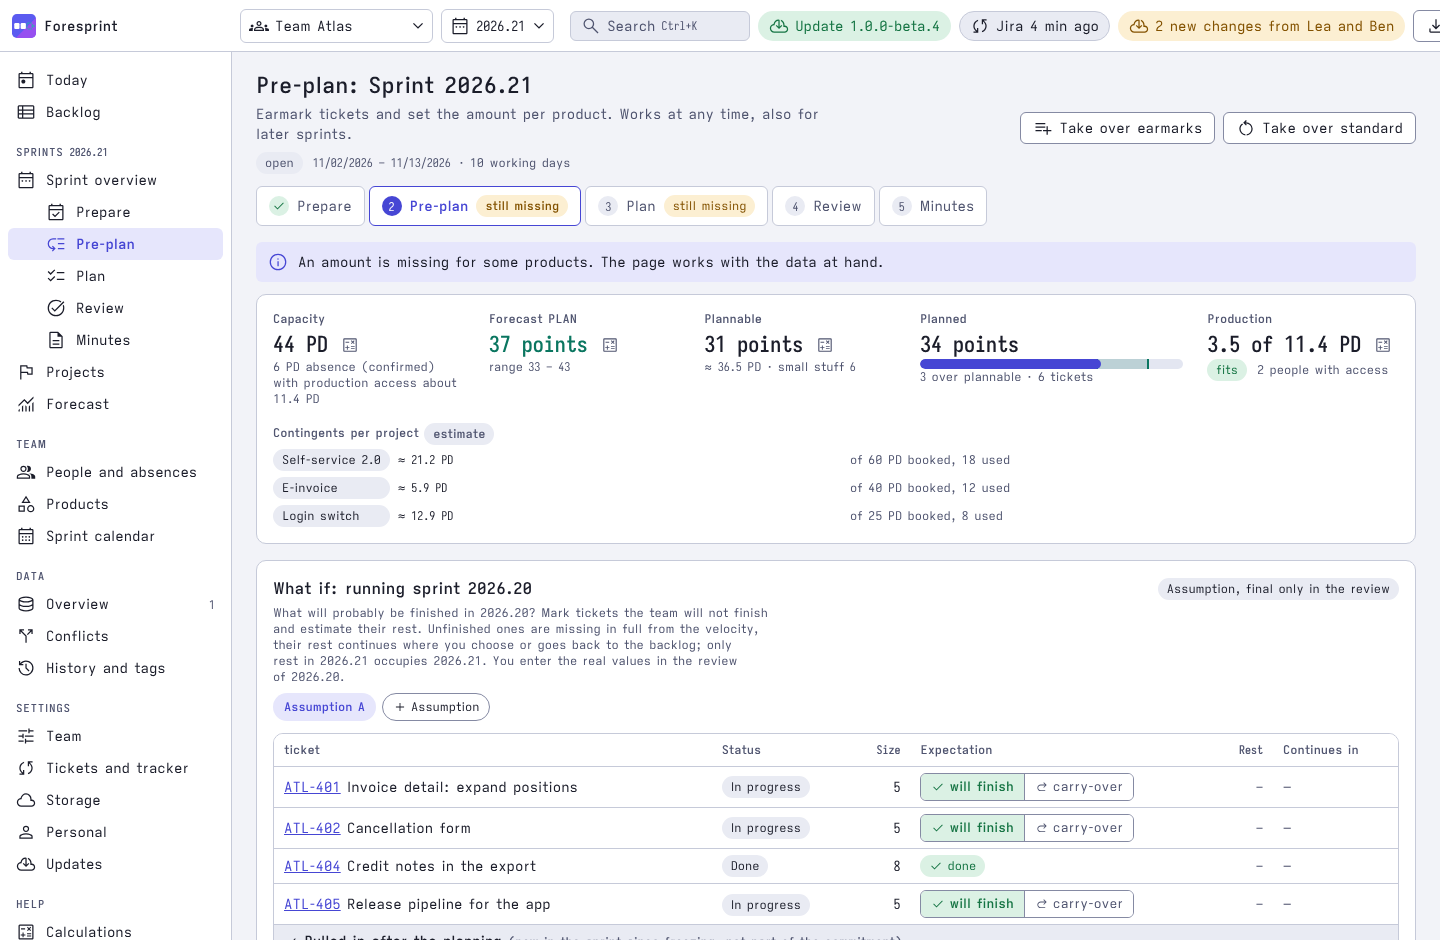
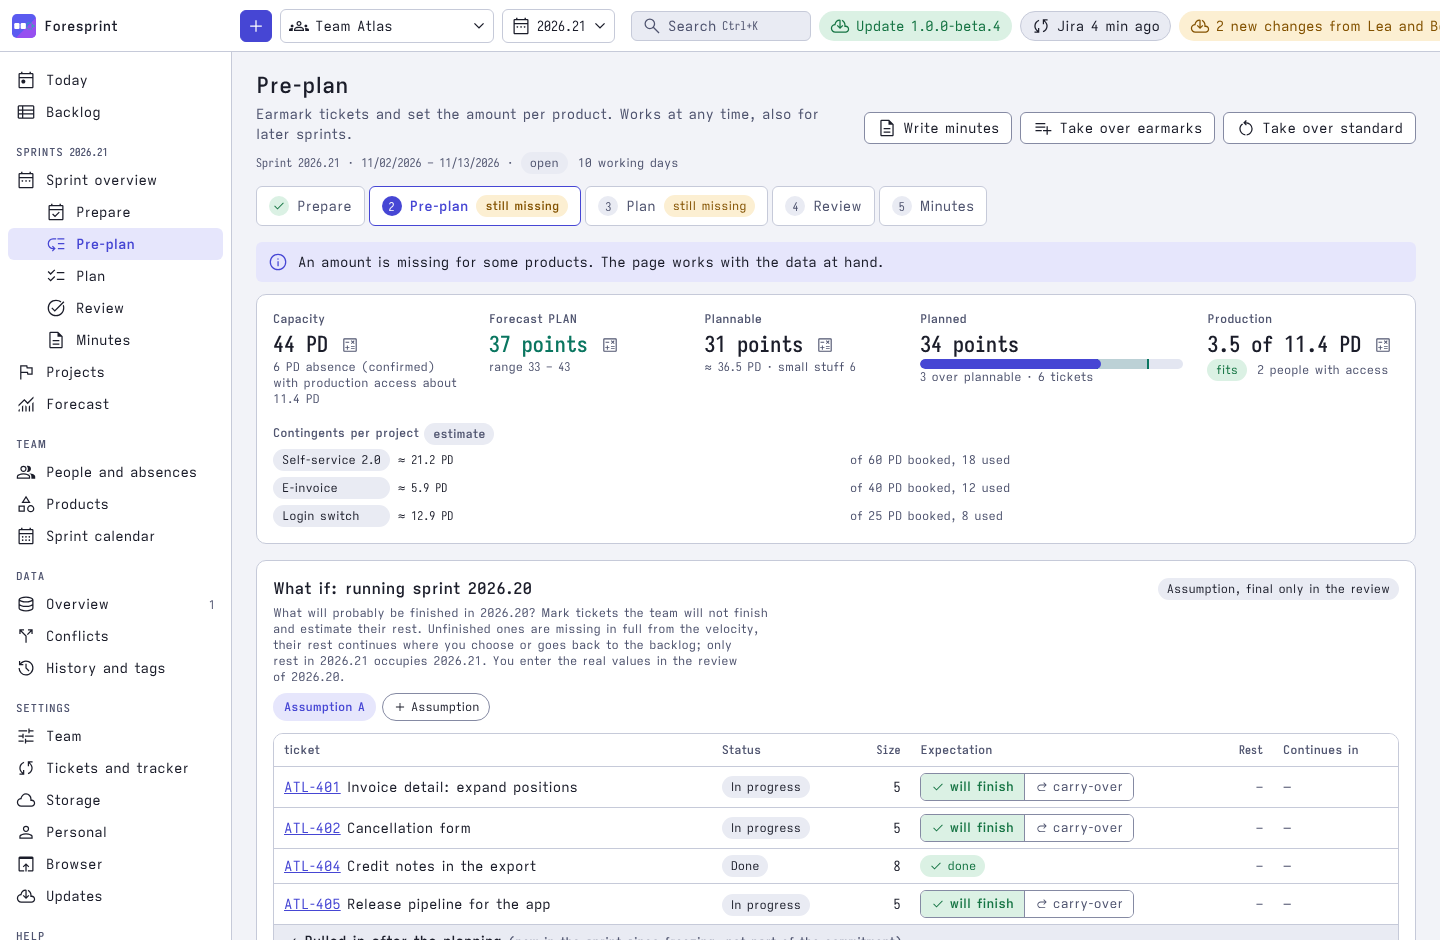
Docs: browser access, Jira board and write-back, token sign-in, current screenshots (#491)
* Docs: browser access, Jira board and write-back, token sign-in, current screenshots

Claude-Session: https://claude.ai/code/session_01PxpPVAzYWaYmv2KXepWFbj

* Docs: fix review findings (write-back wording, lanes, serve in CLI build, server kind)

Claude-Session: https://claude.ai/code/session_01PxpPVAzYWaYmv2KXepWFbj

---------

diff --git a/docs/window.md b/docs/window.md
@@ -2,8 +2,9 @@
 
 Foresprint 1.0 is one program: a double click on the launcher (or `foresprint gui`) opens the
 window. It reads and writes the **same YAML files** as the command line and validates everything
-before saving. Nothing runs in a browser and no server is started; the data stays in the local
-folder or Git clone. See the [README](../README.md) for installation and the quick start, and
+before saving. The data stays in the local folder or Git clone; no Foresprint server exists. The
+window can optionally also be shown as a [page of your browser](#showing-foresprint-in-the-browser),
+on this computer only. See the [README](../README.md) for installation and the quick start, and
 [Installation](installation.md) for the launcher.
 
 ```bash
@@ -27,7 +28,7 @@ The navigation on the left has these groups. The Backlog appears only for teams 
 | Group | Page | Content |
 |---|---|---|
 | | Today | what is due next in the sprint, findings (projects at risk, open tickets without an estimate) |
-| | Backlog | the tickets in order: filter, sort, drag between backlog and sprints, with capacity and project dates changing at once; presentation view for the refinement or planning meeting |
+| | Backlog | the tickets in one order, as in Jira (the rank of the tracker by default, or your own order): filter, sort, group, drag between backlog and sprints or use the context menu "Send to", with capacity and project dates changing at once; coming sprints as lanes (including the matching sprints of the Jira board), side by side or stacked; presentation view for the refinement or planning meeting |
 | Sprints | Sprint overview | the sprints with their state |
 | | Prepare | absences per person and sprint with a live preview of capacity and forecast; per cell announced or confirmed |
 | | Pre-plan | per product, what should go into the sprint, compared with the default |
@@ -46,10 +47,28 @@ The navigation on the left has these groups. The Backlog appears only for teams 
 | | Tickets and tracker | tracker connection (Jira, CSV, work packages), field mapping, rules, import of a package |
 | | Storage | folder or Git server, sign-in, name and e-mail for saves, way of sharing, switching the branch |
 | | Personal | settings that only apply to you on this computer: language, theme (system, light, dark), density, how calculations are shown |
+| | Browser | show Foresprint as a page of your browser, on this computer only |
 | | Updates | the update mode (`on`, `notice`, `off`) and the check for a new version |
 | Help | Calculations, Guided flows | the formulas with your numbers, and the guided flows as a tutorial with the demo team |
 
-Every figure opens its calculation. The sprint chosen in the header applies across pages.
+Every figure opens its calculation. The sprint chosen in the header applies across pages, and every
+sprint page shows the sprint id and its period in its head.
+
+<picture>
+  <source media="(prefers-color-scheme: dark)" srcset="assets/screenshots/backlog-dark.png">
+  <img src="assets/screenshots/backlog-light.png" alt="Backlog: tickets in the order of the tracker on the left, the coming sprints with their forecast on the right">
+</picture>
+
+The **Backlog** shows all tickets in one order, with the coming sprints next to it as lanes. A
+Jira board sprint gets a lane when it matches a sprint of Foresprint. A ticket that already sits in
+a Jira sprint is locked in the Backlog ("Move it in Jira"); only the optional
+[write-back](jira.md#writing-the-planned-sprint-back) of the Plan page can move it.
+**Plan** takes tickets from the candidates into the sprint until sum, products and projects fit:
+
+<picture>
+  <source media="(prefers-color-scheme: dark)" srcset="assets/screenshots/plan-dark.png">
+  <img src="assets/screenshots/plan-light.png" alt="Plan: capacity, Forecast PLAN, plannable amount and the two lanes candidates and sprint">
+</picture>
 
 ## Saving, sharing and refreshing
 
@@ -92,10 +111,39 @@ confirmation). **Test connection** asks the server for its branches and changes 
 address that is demonstrably unreachable, or a server without the local branch, can be saved only
 with explicit confirmation; a repository that is not found, a rejected login or an untrusted
 certificate are never saved. Credentials in the address are rejected, never stored and never shown.
-For https servers, **Set up sign-in** hands an access token once to Git's credential helper and
-checks it; Foresprint never stores or shows the token. It creates no SSH keys and changes the
+For https servers, **Sign-in (token)** hands an access token once to Git's credential helper and
+checks it; Foresprint never stores or shows the token. The kind of server (GitLab, Gitea
+or Forgejo, GitHub) is detected from the address; when it cannot be told, **My server is** lets you
+choose. The user name the server expects follows from it (for example `oauth2` for GitLab), and "How do I get a token?" lists
+the steps for that server. It creates no SSH keys and changes the
 global Git configuration only on request: the name and e-mail of the commits, and the credential
 helper when you click "Turn it on".
+
+<picture>
+  <source media="(prefers-color-scheme: dark)" srcset="assets/screenshots/storage-dark.png">
+  <img src="assets/screenshots/storage-light.png" alt="Settings, Storage: data folder, server, token sign-in, branch, name and e-mail">
+</picture>
+
+## Showing Foresprint in the browser
+
+The same program can be shown as a page of your browser, for example next to Jira while you share
+your screen. Switch it on from the top bar menu or **Settings > Browser** (**Open in browser** or
+**Copy browser link**), or start it without a window with `foresprint serve`.
+
+<picture>
+  <source media="(prefers-color-scheme: dark)" srcset="assets/screenshots/browser-dark.png">
+  <img src="assets/screenshots/browser-light.png" alt="Settings, Browser: the browser access with Open in browser, Copy browser link and Switch off">
+</picture>
+
+- The access works **only on this computer** (`127.0.0.1`). The link contains a secret key that is
+  new on every start and void once you switch the access off or close the program. Share the
+  browser tab when you share the screen, never the link.
+- Window and page show the same data and update each other within a second or two. A page that is
+  being edited is not replaced.
+- Native dialogs (choosing a folder) open on the computer, not in the page; with
+  `foresprint serve` they are not available. While the window is open, the data folder cannot be
+  switched from the page. Updates of the program are made in the window.
+- It is meant for a personal computer; on a computer shared by several people use the window.
 
 ## Changes and history
 

diff --git a/docs/jira.md b/docs/jira.md
@@ -4,9 +4,10 @@ The ticket pre-planning ([design](design/ticket-planning.md), `features.tickets`
 tickets straight from **Jira Data Center** instead of from a CSV export. The import is
 **read-only** by default: the tool sends only `GET` requests and never changes anything in Jira.
 There are two optional exceptions, both off by default: the [label write-back](#writing-earmarks-as-labels)
-(`write_labels: true`), which adds or removes `planned_for_<sprint>` labels, and the write-back of a
-planned sprint (Settings > Tickets and tracker), which moves tickets between a sprint and the
-backlog through the Agile API on an explicit click, with preview and undo. Order, estimate, status
+(`write_labels: true`), which adds or removes `planned_for_<sprint>` labels, and the
+[write-back of a planned sprint](#writing-the-planned-sprint-back) (Settings > Tickets and
+tracker), which moves tickets between a sprint and the backlog through the Agile API on an
+explicit click, with preview and undo. Order, estimate, status
 and texts are never written, and no sprint is created, started or closed.
 
 ## Setup
@@ -72,6 +73,23 @@ and texts are never written, and no sprint is created, started or closed.
    order of the project assignment criteria (epic, component, label); the criteria of each project
    are set per project.
 
+## Jira board and sprints
+
+The **Jira board** card of Settings > Tickets and tracker takes the number of the board whose
+sprints Foresprint looks up (`tracker.board_id`, the number in the board's address). With it, an
+active or future sprint without tickets is found too, and a board sprint that matches a sprint of
+Foresprint (by name or your choice), starts in the future and is not closed gets a lane in the
+Backlog.
+Without a board number the sprints are known only from the tickets read. The card works without
+the write-back.
+
+The table **Sprints in Jira** matches every Jira sprint with open tickets to a sprint of
+Foresprint, by name (automatically) or by your choice, or marks it as **pro forma** (a place to park
+tickets such as "Refinement"; it never counts for capacity or forecast). Sprints that still need
+a match are listed there. The order of the Backlog follows the rank of Jira; an automatic fetch
+keeps the order you set in Foresprint, and only the button **Fetch now** (or `--fetch --apply`)
+takes the order of Jira again.
+
 ## Reading tickets
 
 ```bash
@@ -88,6 +106,17 @@ unclear ...) and starts with the Jira host and the number of tickets read.
 **An empty answer never counts as "no work".** If the query returns no tickets while
 `tickets.yaml` holds tickets, nothing is written (also with `--apply`) and the command fails with a
 hint to check the JQL and the permissions of the token.
+
+## Writing the planned sprint back
+
+Optional and off by default (Settings > Tickets and tracker, card "Write to Jira", switch "Writing
+back on" / "Read only"; `tracker.write_sprint`). After the plan is frozen and before the sprint has
+started, the **Plan** page shows a preview with one row per move; single tickets can be unticked, and nothing is written without your click. It moves tickets
+between a Jira sprint and the backlog (or the next or a pro-forma sprint, as chosen for taken-out
+tickets) through the Agile API. Rank, estimate, status, texts and labels are never written, no
+sprint is created, started or closed, and a closed sprint is never written to. **Take back what was
+written** puts the moved tickets back until the program is restarted or the sprint has started. The step-by-step test is in
+[Manual acceptance](manual-acceptance.md#f-jira-write-back-of-the-planned-sprint-p1).
 
 ## Writing earmarks as labels
 
@@ -132,6 +161,7 @@ Reading uses only `GET` requests, to these endpoints:
 | `/rest/api/2/myself` | connection test: the display name of the account |
 | `/rest/api/2/field` | resolves the field names from `tracker.fields` to `customfield_…` ids; finds the sprint, rank and epic link fields by their schema |
 | `/rest/api/2/search` | with `maxResults=1`: the number of tickets the query matches (*Test connection*) |
+| `/rest/agile/1.0/board/<id>/sprint` | with a board number, from the window (when the Backlog opens and while fetching): the active and future sprints of the board (`state=active,future`), also empty ones |
 | `/rest/api/2/search` | the tickets of `tracker.query`, 100 per page, with `fields=` limited to what is needed (summary, status, issue type, labels, components, resolution, issue links, parent, estimate, remaining, epic, sprint, rank) |
 
 Authentication is the header `Authorization: Bearer <token>`; the certificate is always verified

diff --git a/README.md b/README.md
@@ -38,8 +38,18 @@ installed.
   <img src="docs/assets/screenshots/forecast-light.png" alt="Forecast: velocity, trend and the PLAN range for the coming sprints">
 </picture>
 
+<picture>
+  <source media="(prefers-color-scheme: dark)" srcset="docs/assets/screenshots/backlog-dark.png">
+  <img src="docs/assets/screenshots/backlog-light.png" alt="Backlog in the order of the tracker, with the coming sprints and their forecast beside it">
+</picture>
+
 <details>
 <summary>More screenshots</summary>
+
+<picture>
+  <source media="(prefers-color-scheme: dark)" srcset="docs/assets/screenshots/plan-dark.png">
+  <img src="docs/assets/screenshots/plan-light.png" alt="Plan: capacity, Forecast PLAN and the lanes candidates and sprint">
+</picture>
 
 <picture>
   <source media="(prefers-color-scheme: dark)" srcset="docs/assets/screenshots/today-dark.png">
@@ -61,6 +71,11 @@ installed.
   <img src="docs/assets/screenshots/analysis-light.png" alt="When is it done? Monte Carlo analysis">
 </picture>
 
+<picture>
+  <source media="(prefers-color-scheme: dark)" srcset="docs/assets/screenshots/storage-dark.png">
+  <img src="docs/assets/screenshots/storage-light.png" alt="Settings, Storage: data folder, server, token sign-in and branch">
+</picture>
+
 </details>
 
 *The screenshots show the invented demo team "Atlas".*
@@ -78,7 +93,7 @@ powershell -NoProfile -ExecutionPolicy ByPass -c "irm https://raw.githubusercont
 ```
 
 A specific version (the default is the newest release): set it first, for example
-`$env:FORESPRINT_VERSION = "1.0.0-beta.5"; irm https://raw.githubusercontent.com/swallat/foresprint/v1/install.ps1 | iex`.
+`$env:FORESPRINT_VERSION = "1.0.0"; irm https://raw.githubusercontent.com/swallat/foresprint/v1/install.ps1 | iex`.
 
 **Linux / macOS:**
 
@@ -111,10 +126,14 @@ points out new versions; it never installs by itself (`foresprint update --auto 
 - **Several products and projects:** distribution per product, projects with milestones and
   contingents, and a traffic light that shows whether a project meets its target.
 - **Ticket pre-planning:** read tickets from Jira (read-only with a personal access token; writing
-  a planned sprint back is optional) or a CSV export, and distribute them over the coming sprints.
+  a planned sprint back is optional) or a CSV export. The Backlog shows them in the order of Jira
+  and distributes them over the coming sprints, which are lanes next to the list.
+- **In the browser too:** show the same program as a page of your browser, on your computer only,
+  for example next to Jira (`foresprint serve` or Settings > Browser).
 - **Analyses:** range, focus factor, buffer, and "When will it be done?" (Monte Carlo).
 - **Git without the terminal:** save and share, fetch others' changes, resolve conflicts, view the
-  history and restore an earlier state from the window.
+  history and restore an earlier state from the window. Sign-in with a token for GitLab, Gitea,
+  Forgejo and GitHub.
 - **Excel round trip:** `foresprint excel` writes a workbook with real formulas,
   `foresprint excel-import` reads the changes back.
 - **Unit-neutral:** the estimation unit, story points (SP) or person days (PD), is a team setting.
@@ -161,7 +180,7 @@ configuration](docs/cli.md); the full sprint workflow is in [Sprint workflow](do
 ## Documentation
 
 - [Installation and updates](docs/installation.md)
-- [The window](docs/window.md): pages, saving and sharing with Git, server setup, history
+- [The window](docs/window.md): pages, saving and sharing with Git, server setup, history, browser access
 - [Sprint workflow](docs/sprint-workflow.md): what to do when
 - [Command line and configuration](docs/cli.md): all commands, the data directory, language
 - [Data format](docs/data-format.md): `team.yaml`, `people.yaml`, `products.yaml`, sprint files

diff --git a/docs/installation.md b/docs/installation.md
@@ -6,16 +6,19 @@ keep your team data in a Git repository.
 
 ## Install
 
+Until 1.0 moves to the `main` branch, the installer scripts are taken from the `v1` branch (the
+default branch still holds the old Python version).
+
 **Windows (PowerShell):**
 
 ```powershell
-powershell -NoProfile -ExecutionPolicy ByPass -c "irm https://raw.githubusercontent.com/swallat/foresprint/main/install.ps1 | iex"
+powershell -NoProfile -ExecutionPolicy ByPass -c "irm https://raw.githubusercontent.com/swallat/foresprint/v1/install.ps1 | iex"
 ```
 
 **Linux / macOS:**
 
 ```bash
-curl -LsSf https://raw.githubusercontent.com/swallat/foresprint/main/install.sh | sh
+curl -LsSf https://raw.githubusercontent.com/swallat/foresprint/v1/install.sh | sh
 ```
 
 The script downloads the archive for your system from the newest GitHub release, checks its
@@ -55,10 +58,10 @@ The release has a second Linux archive without the window part: `foresprint-cli_
 It is statically linked and needs no libraries. Install it with
 
 ```sh
-curl -LsSf https://raw.githubusercontent.com/swallat/foresprint/main/install.sh | FORESPRINT_VARIANT=cli sh
+curl -LsSf https://raw.githubusercontent.com/swallat/foresprint/v1/install.sh | FORESPRINT_VARIANT=cli sh
 ```
 
-`foresprint update` stays on this variant. It has all commands except `foresprint gui`.
+`foresprint update` stays on this variant. It has all commands except `foresprint gui` and `foresprint serve`.
 
 ## Not signed: SmartScreen and Gatekeeper
 
@@ -140,9 +143,9 @@ only lists, `--yes` / `-Force` skips the question). Close the app first, Windows
 programs. The `PATH` entry added by `install.ps1` stays.
 
 ```bash
-curl -LsSf https://raw.githubusercontent.com/swallat/foresprint/main/uninstall.sh | sh -s -- --dry-run
+curl -LsSf https://raw.githubusercontent.com/swallat/foresprint/v1/uninstall.sh | sh -s -- --dry-run
 ```
 
 ```powershell
-powershell -NoProfile -ExecutionPolicy ByPass -c "& ([scriptblock]::Create((irm https://raw.githubusercontent.com/swallat/foresprint/main/uninstall.ps1))) -DryRun"
+powershell -NoProfile -ExecutionPolicy ByPass -c "& ([scriptblock]::Create((irm https://raw.githubusercontent.com/swallat/foresprint/v1/uninstall.ps1))) -DryRun"
 ```

diff --git a/docs/cli.md b/docs/cli.md
@@ -41,6 +41,7 @@ commands write the same files as the window.
 | `foresprint storage [server ADDRESS \| sign-in ADDRESS \| identity \| share \| branch \| save \| refresh \| history]` | Settings > Storage and the Data area on the command line, the same service as the window: show the setup, set the server (checked first), hand a token to Git's credential helper (never stored by Foresprint; read from the terminal without echo, or one line from standard input), name and email for saves, way to share, branches, save (`-m`, `--anyway`), refresh, history |
 | `foresprint check [--strict]` | validate all data (CI, before a commit) |
 | `foresprint settings TEAM` | change team settings |
+| `foresprint serve` | show the window as a page of the browser, on this computer only (not in the CLI-only build); prints a link with a secret key (stop with Ctrl+C), see [The window](window.md#showing-foresprint-in-the-browser) |
 | `foresprint data-dir [PATH]`, `language [de\|en]`, `shortcut`, `update` | remembered data folder, UI language, desktop launcher, update |
 | `foresprint completion bash\|zsh\|fish\|powershell`, `version` | Tab completion script, version |
 | `foresprint help [TOPIC]` | workflow, terms, fields, team settings, commands |
